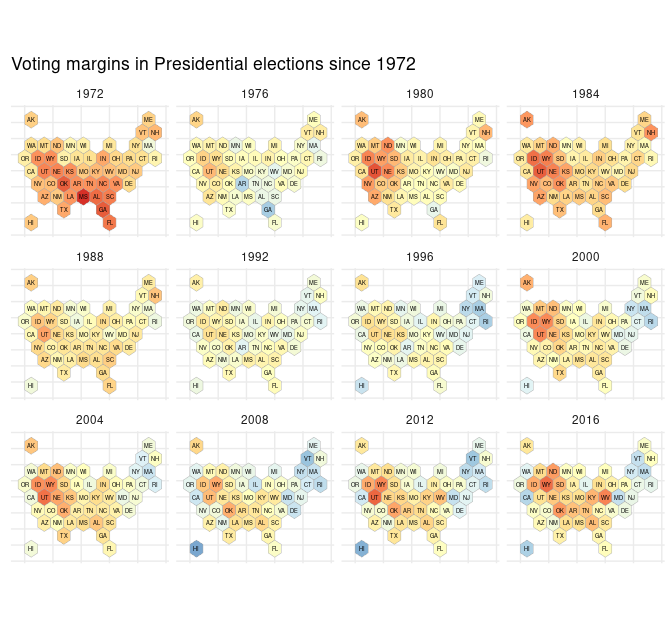
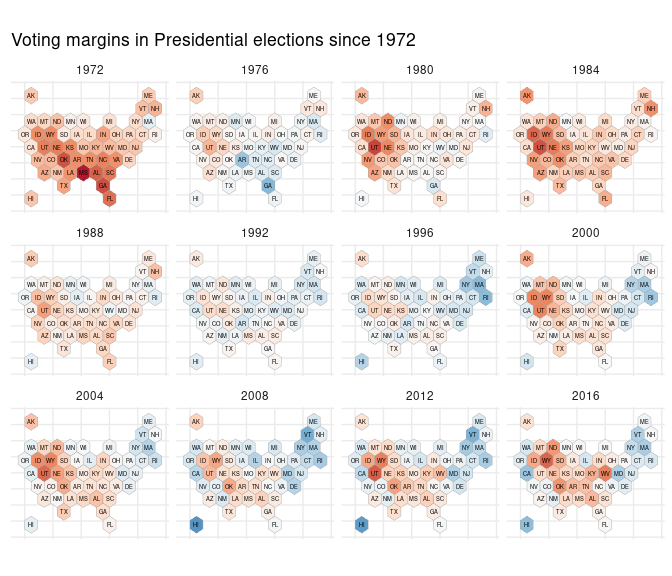
re

diff --git a/README.md b/README.md
@@ -207,8 +207,8 @@ vvo <- lapply(c('house', 'senate'), function(x) {
     filter(congress > con & chamber != 'President') }) #66
 ```
 
-    ## [1] "/tmp/RtmpnWh79B/Hall_members.csv"
-    ## [1] "/tmp/RtmpnWh79B/Sall_members.csv"
+    ## [1] "/tmp/RtmpdhklDb/Hall_members.csv"
+    ## [1] "/tmp/RtmpdhklDb/Sall_members.csv"
 
 ``` r
 congress <- vvo %>%
@@ -279,11 +279,8 @@ mp %>%
                           size = 1.5,
                           color='black') +
   
-  #scale_fill_distiller(palette = "RdBu", direction=-1) +
-  
-  scale_fill_distiller(palette = "RdYlBu",  
+  scale_fill_distiller(palette = "RdBu",  
                         limit = max(abs(mp$margins)) * c(-1, 1)) +
-  
   
   facet_wrap(~year, ncol = 4) +
   theme_minimal()+ theme_guide() +
